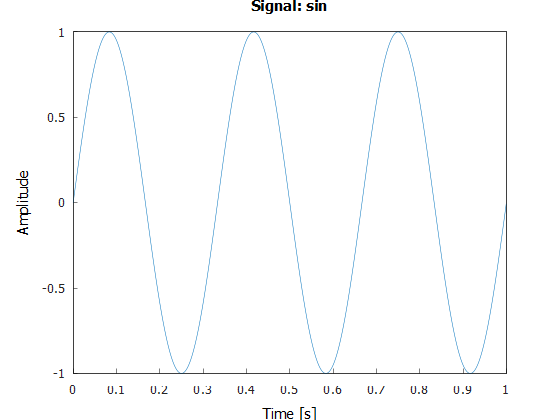
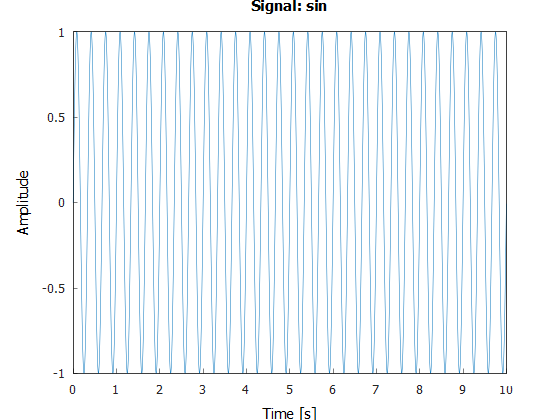
lepszy python

diff --git a/src/test.py b/src/test.py
@@ -23,13 +23,17 @@ try:
     import example
 
 # Create signal object
-    signal1 = example.Signal(3.0, 0.0, 1.0, "sin")
+    freaquency = float(input("podaj częstotliwość sygnału: "))
+    start = float(input("podaj moment rozpoczęcia: "))
+    end = float(input("podaj moment zakończenia: "))
+    signal_type = input("podaj typ sygnału (sin,cos, kwadrat, pila): ")
+    signal1 = example.Signal(freaquency, start, end, signal_type)
     plot = example.plot_signal(signal1)
     # Test if import worked
-    result = example.add()
-    print(f"Success! Result of add(): {result}")
-    print(f"Running on: {system}")
-    print(f"\nModule location: {example.__file__}")
+    # result = example.add()
+    # print(f"Success! Result of add(): {result}")
+    # print(f"Running on: {system}")
+    # print(f"\nModule location: {example.__file__}")
 
 except ImportError as e:
     print(f"Import error: {e}")

diff --git a/src/plot.cpp b/src/plot.cpp
@@ -18,8 +18,15 @@ void plot_signal(Signal signal) {
     for(size_t i = 0; i < t.size(); i++) {
         t[i] = i * dt;
     }
-
+    
+     double margin = (*std::max_element(signal.samples.begin(), signal.samples.end()) - *std::min_element(signal.samples.begin(), signal.samples.end())) * 0.2;
+    //std::cout << "Margin: " << *std::min_element(signal.samples.begin(), signal.samples.end()) << std::endl;
+    double y_min = *std::min_element(signal.samples.begin(), signal.samples.end()) - margin;
+    double y_max = *std::max_element(signal.samples.begin(), signal.samples.end()) + margin;
+    // double y_min = 1.2;
+    // double y_max = -1.2;
     // Create plot
+    ylim({y_min, y_max});
     plot(t, signal.samples);
     xlabel("Time [s]");
     ylabel("Amplitude");

diff --git a/src/idft.cpp b/src/idft.cpp
@@ -5,14 +5,13 @@
 #include "headers.h"
 
 std::vector<double> idft(const std::vector<std::complex<double>>& X) {
-    const int N = X.size();
-    std::vector<double> samples(N);
-    const double scale = 1.0 / N;
+    std::vector<double> samples(X.size());
+    const double scale = 1.0 / X.size();
     
-    for (int n = 0; n < N; n++) {
+    for (int n = 0; n < X.size(); n++) {
         std::complex<double> sum(0.0, 0.0);
-        for (int k = 0; k < N; k++) {
-            sum += X[k] * std::exp(std::complex<double>(0, 2.0 * PI * k * n / N));
+        for (int k = 0; k < X.size(); k++) {
+            sum += X[k] * std::exp(std::complex<double>(0, 2.0 * PI * k * n / X.size()));
         }
         samples[n] = scale * std::real(sum);
     }
